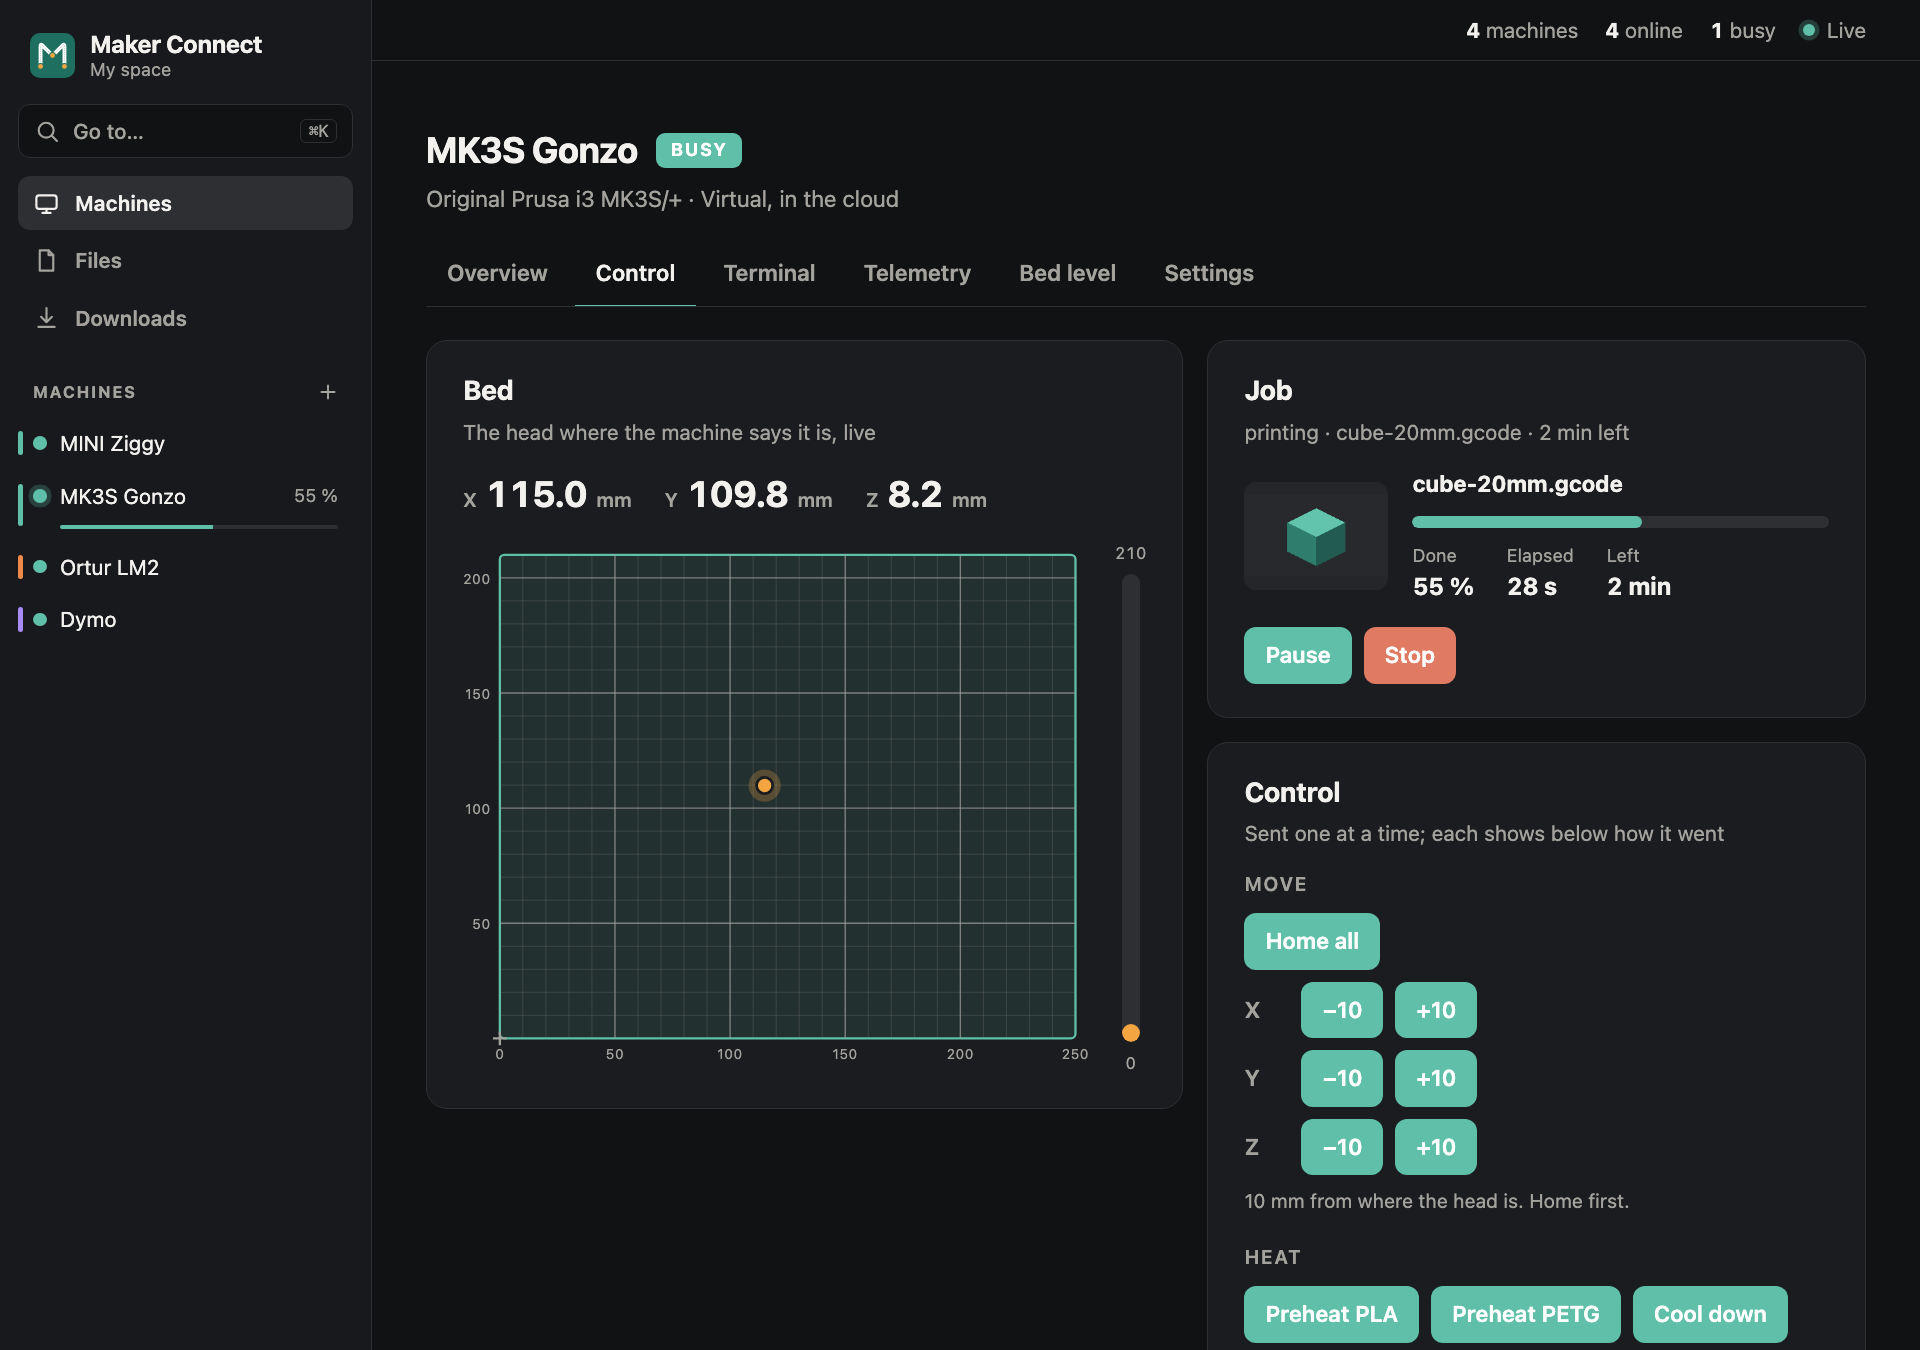
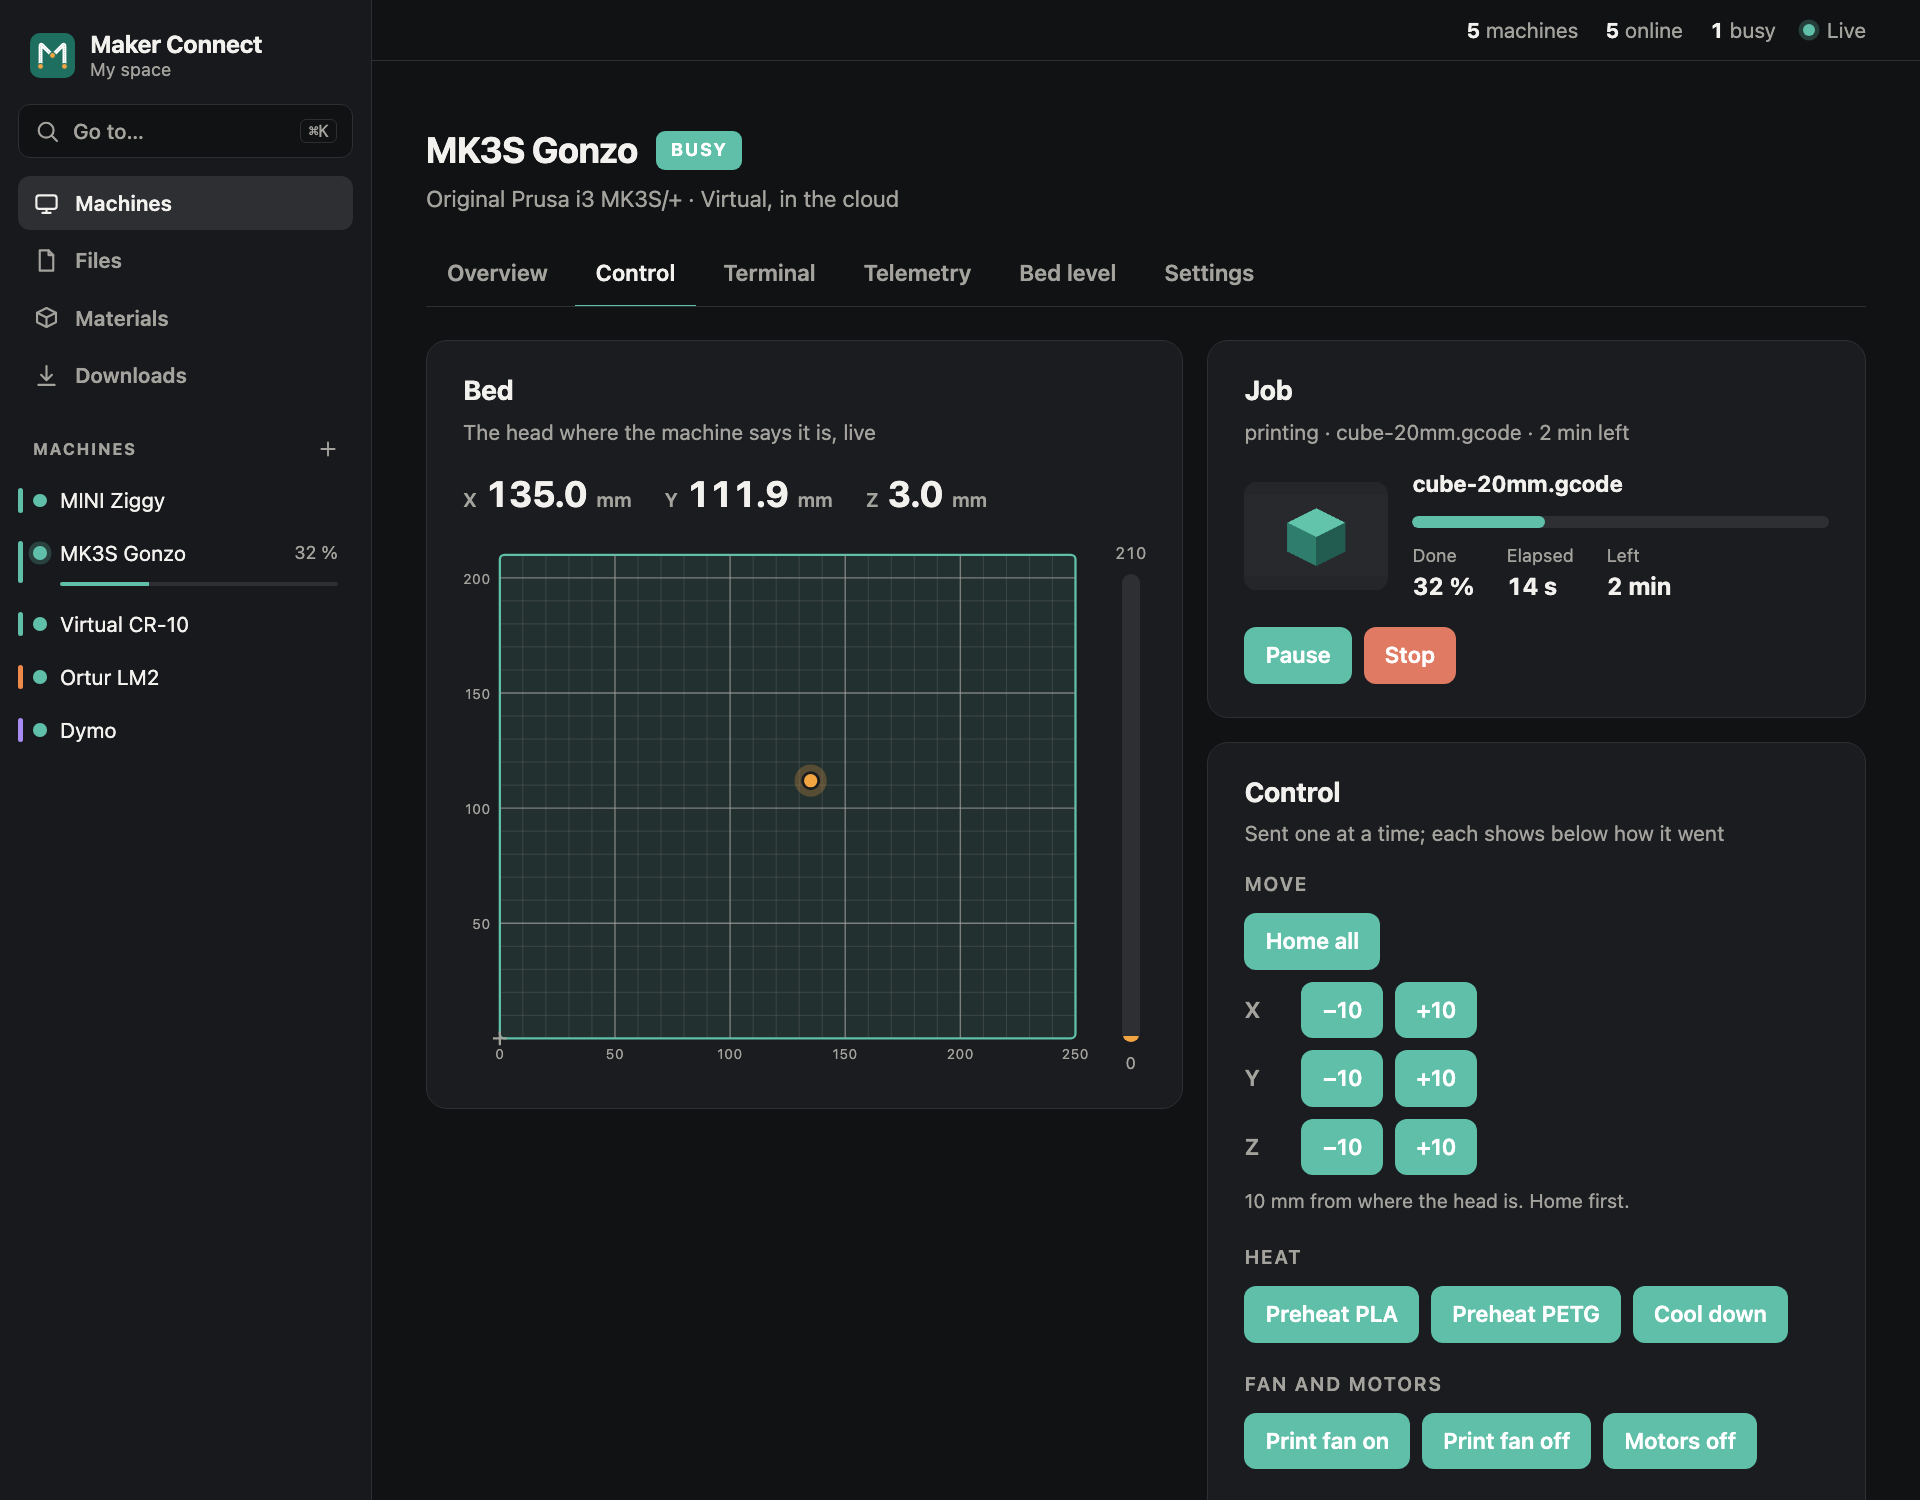
Docs: lasers' jog pad and origin, the machine list, materials; fresh screenshots
README: the laser's Control and the Materials page side by side, the machine list,
colour names and the fuzzy search; docs/integrations.md: the jog pad, the origin, and
what is known (and not) of the DYMO's status bytes.

diff --git a/README.md b/README.md
@@ -15,7 +15,7 @@ old laptop, a NAS). Shaped so that it could one day be hosted for many makerspac
 A proof of concept, in Rust. Licence: [AGPL-3.0](LICENSE).
 
 <p align="center">
-  <img src="docs/screenshots/machines.png" alt="The machines of a space, grouped by kind: two Prusas, one printing a cube at 33 %, a laser and a DYMO label printer" width="860">
+  <img src="docs/screenshots/machines.png" alt="The machines of a space, grouped by kind, in the same columns: three printers, one printing a cube at 33 %, a laser and a DYMO label printer, each with what it does now, how it connects, when it was seen and its state" width="860">
 </p>
 
 | | |
@@ -26,8 +26,8 @@ A proof of concept, in Rust. Licence: [AGPL-3.0](LICENSE).
 | **Bed level**: the mesh as a surface, a map and a table | **Files**: sorted and filtered by type and machine, where each was printed, removed many at once |
 | ![A label printer's label tab: text, font, a QR code, and the preview of the dots that will burn on 12 mm tape](docs/screenshots/label.png) | ![The downloads page: the agent for macOS and Windows, with the command to start it](docs/screenshots/downloads.png) |
 | **Label**: text, a QR code or barcode, a drawing; the preview is the dots that will burn | **Downloads**: the agent for each platform, with the command for this cloud |
-| ![The stock page: filament and label tapes with their spools and cassettes, where each is, a scan box](docs/screenshots/stock.png) | |
-| **Materials**: each spool and cassette with a code and a label, where it is, what is loaded | |
+| ![A laser's control tab: the work area, a jog pad with eight directions round Home, the step and speed, Set origin here and Go to origin](docs/screenshots/laser-control.png) | ![The Materials page: filament and label tapes with their spools and cassettes, where each is, a scan box](docs/screenshots/materials.png) |
+| **A laser's Control**: a jog pad (eight directions, a step from 0.1 to 50 mm, the arrow keys), the job's origin set where the head is | **Materials**: each spool and cassette with a code and a label, where it is, what is loaded |
 
 ## What works
 
@@ -43,7 +43,9 @@ A proof of concept, in Rust. Licence: [AGPL-3.0](LICENSE).
   goes (`M155`), paused between two lines, stopped with heaters and motors off. Tested
   against a simulated printer; the first real print is still to come.
 - **Lasers (GRBL)** through the agent, with [LaserFoundry](https://github.com/Stitchwright/laserfoundry)'s
-  device crate: homing, GRBL's own jogs, the controller's settings checked before a job
+  device crate: homing; a jog pad (eight directions, a step of 0.1, 1, 10 or 50 mm, a speed,
+  the arrow keys) moving by GRBL's own jogs with the laser off; the job's origin set where the
+  head is (`G92 X0 Y0`) and gone back to; the controller's settings checked before a job
   (laser mode, full power, travel), Frame (the outline with the laser off), streaming by GRBL's
   character counting, pause, resume, stop (laser off), and starting an interrupted job again a
   little before where it stopped. Not yet tried on a real laser.
@@ -58,11 +60,15 @@ A proof of concept, in Rust. Licence: [AGPL-3.0](LICENSE).
   (`L-0003`), loading into a machine (a tape tells the label printer which it has), weighing,
   used up; every change kept as a movement. A barcode scanner works anywhere on the page.
   **271 filaments** (Prusament, Devil Design, Fiberlogy, colorFabb…) from PrusaSlicer's
-  profiles, with density, empty spool weight and temperatures: weigh a spool and the spool
-  is taken off.
+  profiles, found by typing (typos forgiven), with density, empty spool weight and
+  temperatures: weigh a spool and the spool is taken off. A material has a colour and a
+  colour name (*Galaxy Black*), and can be changed later.
 - **Files and jobs.** Drop G-code on the Files page; the cloud reads what the slicer wrote
   (time, filament, layer height, the printer it was sliced for, the thumbnail) and offers only
   the machines it fits. Jobs show progress, time left, pause and stop.
+- **The machine list**: every machine in the same columns, grouped by kind: name and model,
+  what it does now (its job, temperatures, the head, the tape and battery), how it connects
+  and its firmware, when it was last seen, its state.
 - **Machine pages**: Overview, Control, Terminal (G-code and the machine's answers),
   Telemetry, Bed level (Prusa `G80`/`G81`, Marlin `G29`/`M420 V`, read the way the OctoPrint
   Bed Level Visualizer does), Settings.
@@ -83,7 +89,7 @@ A proof of concept, in Rust. Licence: [AGPL-3.0](LICENSE).
 | **Prusa MINI** (Buddy firmware) | Its own firmware speaks Prusa Connect to the cloud: no agent | Registers with a code, reports, takes commands | Yes: a MINI on firmware 6.3.0 |
 | **3D printers on Marlin**: 245 models (Creality, Anycubic, Artillery, …) | Agent, on USB | Recognised from `M115`; live temperatures, moves, heating, bed mesh, terminal; **prints files** (pause, resume, stop) | Not yet: tested against simulated printers |
 | **Prusa on 8-bit firmware**: MK3S, MK2.5S | Agent, on USB or an MK3S's RPi port (a Pi Zero W) | As Marlin, recognised from `M862.2 Q` | Not yet: an MK3S with its Pi Zero W is the first to try |
-| **Lasers on GRBL**: Ortur Laser Master 2 Pro S2, other GRBL 1.1 | Agent, on USB, with LaserFoundry's device crate | Homing, jogs, settings checked, Frame, jobs streamed, pause, resume, stop, restart where it stopped | Not yet: tested against LaserFoundry's simulated GRBL |
+| **Lasers on GRBL**: Ortur Laser Master 2 Pro S2, other GRBL 1.1 | Agent, on USB, with LaserFoundry's device crate | Homing, the jog pad, the job's origin, settings checked, Frame, jobs streamed, pause, resume, stop, restart where it stopped | Not yet: tested against LaserFoundry's simulated GRBL |
 | **Label printers**: DYMO LabelManager PnP | Agent, on USB HID: no driver, no DYMO software | Labels from the editor (text, QR codes, barcodes, drawings), tapes, cassette and battery | Yes: from a Mac and a Windows laptop, 12 mm tape |
 | **A virtual one of every profile** | Simulated in the cloud | Printers home, heat, measure and print; lasers on simulated GRBL; label printers print | – |
 
@@ -113,8 +119,9 @@ has its options and its config file.
 ## Wiki
 
 Guides and designs live in the [wiki](https://github.com/CuriousTimo/Maker-Connect/wiki):
-getting started, the agent, label printers, machine profiles; the designs for devices behind
-smart plugs, a multi-tenant cloud, and consumables and stock; and the roadmap.
+getting started, the agent, lasers, label printers, materials, machine profiles; the designs
+for devices behind smart plugs, a multi-tenant cloud, and consumables and stock; and the
+roadmap.
 
 ## How it is built
 
@@ -139,7 +146,8 @@ codes scanned off real labels, are still to try. Files for the MINI over Prusa C
 marked `# check` in the profiles are not yet confirmed on the machines.
 
 **Safety:** a laser and a heated printer can start a fire. Frame a laser job and start at low
-power; stay with a running machine.
+power; stay with a running machine. The jog pad keeps the laser off, but it moves a real head:
+home first, and keep hands out of the work area.
 
 ## References and credits
 

diff --git a/docs/integrations.md b/docs/integrations.md
@@ -46,7 +46,13 @@ the agent (with real serial ports) and the cloud (virtual lasers):
 
 - GRBL recognised on the port by its greeting (or `$I`); commands (`$H`, `$X`, `$$`, any line)
   with their answers for the terminal;
-- jogs as GRBL's own `$J=` through the link's `jog` and `jog_to` (laser off, checked);
+- jogs as GRBL's own `$J=` through the link's `jog` and `jog_to` (laser off, checked). The
+  website's jog pad (lasers, CNCs, plotters; printers keep their ±10 mm buttons) sends
+  `jog:<x>:<y>` with a step of 0.1, 1, 10 or 50 mm and a speed of 600 to 6000 mm/min; the cloud
+  refuses anything else and turns it into `$J=G91 G21 X… Y… F…`;
+- the job's origin: *Set origin here* is `G92 X0 Y0` and *Go to origin* `G90 G0 X0 Y0`, through
+  the link's `set_zero` and `go_to_zero` (as LaserFoundry does it). GRBL keeps a `G92` offset
+  until it restarts, so it is set again after a reset or a stop (a stop is a soft reset);
 - the settings that matter, read with `$$` on connecting: laser mode (`$32`), full power
   (`$30`), travel (`$130` to `$132`). The cloud refuses a job with laser mode off or outside the
   travel, and warns when the file's power range does not fit `$30`;
@@ -104,8 +110,17 @@ to it through the system's HID API (the `hidapi` crate): no root, no driver.
 
 - Each write is one 64-byte output report (report id 0) carrying the next 64 bytes of the
   stream; reads are 8 bytes, the first being the status.
-- `ESC A` (`1B 41`): status. `0x40` cassette in, ready; `0x60` while printing (bit 5); `0x00` no
-  cassette; `0x10` cutter jammed; `0x04` an error.
+- `ESC A` (`1B 41`): status, 8 bytes. Byte 0: `0x40` cassette in, ready; `0x60` while printing
+  (bit 5); `0x00` no cassette; `0x10` cutter jammed; `0x04` an error. The rest is not
+  documented; read on one PnP (2026-11-04), **to confirm**:
+  - bytes 4 and 5, big-endian: half the pack's voltage in mV (`0d dd` = 3549 mV, a 7.10 V
+    pack). It jitters a few mV, rose while charging and fell while not: a measured voltage.
+    The agent reports it; below 7.0 V a label waits (a weak pack under the print head makes the
+    printer start over, and feed tape), from 7.2 V on it prints again;
+  - byte 3: rose with the voltage (`40`, `4c`, then `64` = 100 while charging): perhaps DYMO's
+    own level, saturating at 100 on the charger. Not used;
+  - byte 2: always `02`, once `12` (bit 4) for one reading while charging. Perhaps "charging"
+    or a moment's busy flag; to find out by plugging and unplugging the charger.
 - A label: `ESC C 0` (tape type), `ESC B 0` (dot tab), `ESC D 8` (8 bytes a column: 64 dots,
   12 mm tape at 180 dpi; 6 for 9 mm, 4 for 6 mm with dot tab 1 or 2), then one `SYN` (`16`)
   and 8 bytes per column of the label, top pin first (bit 7 of the first byte). Like labelle,
